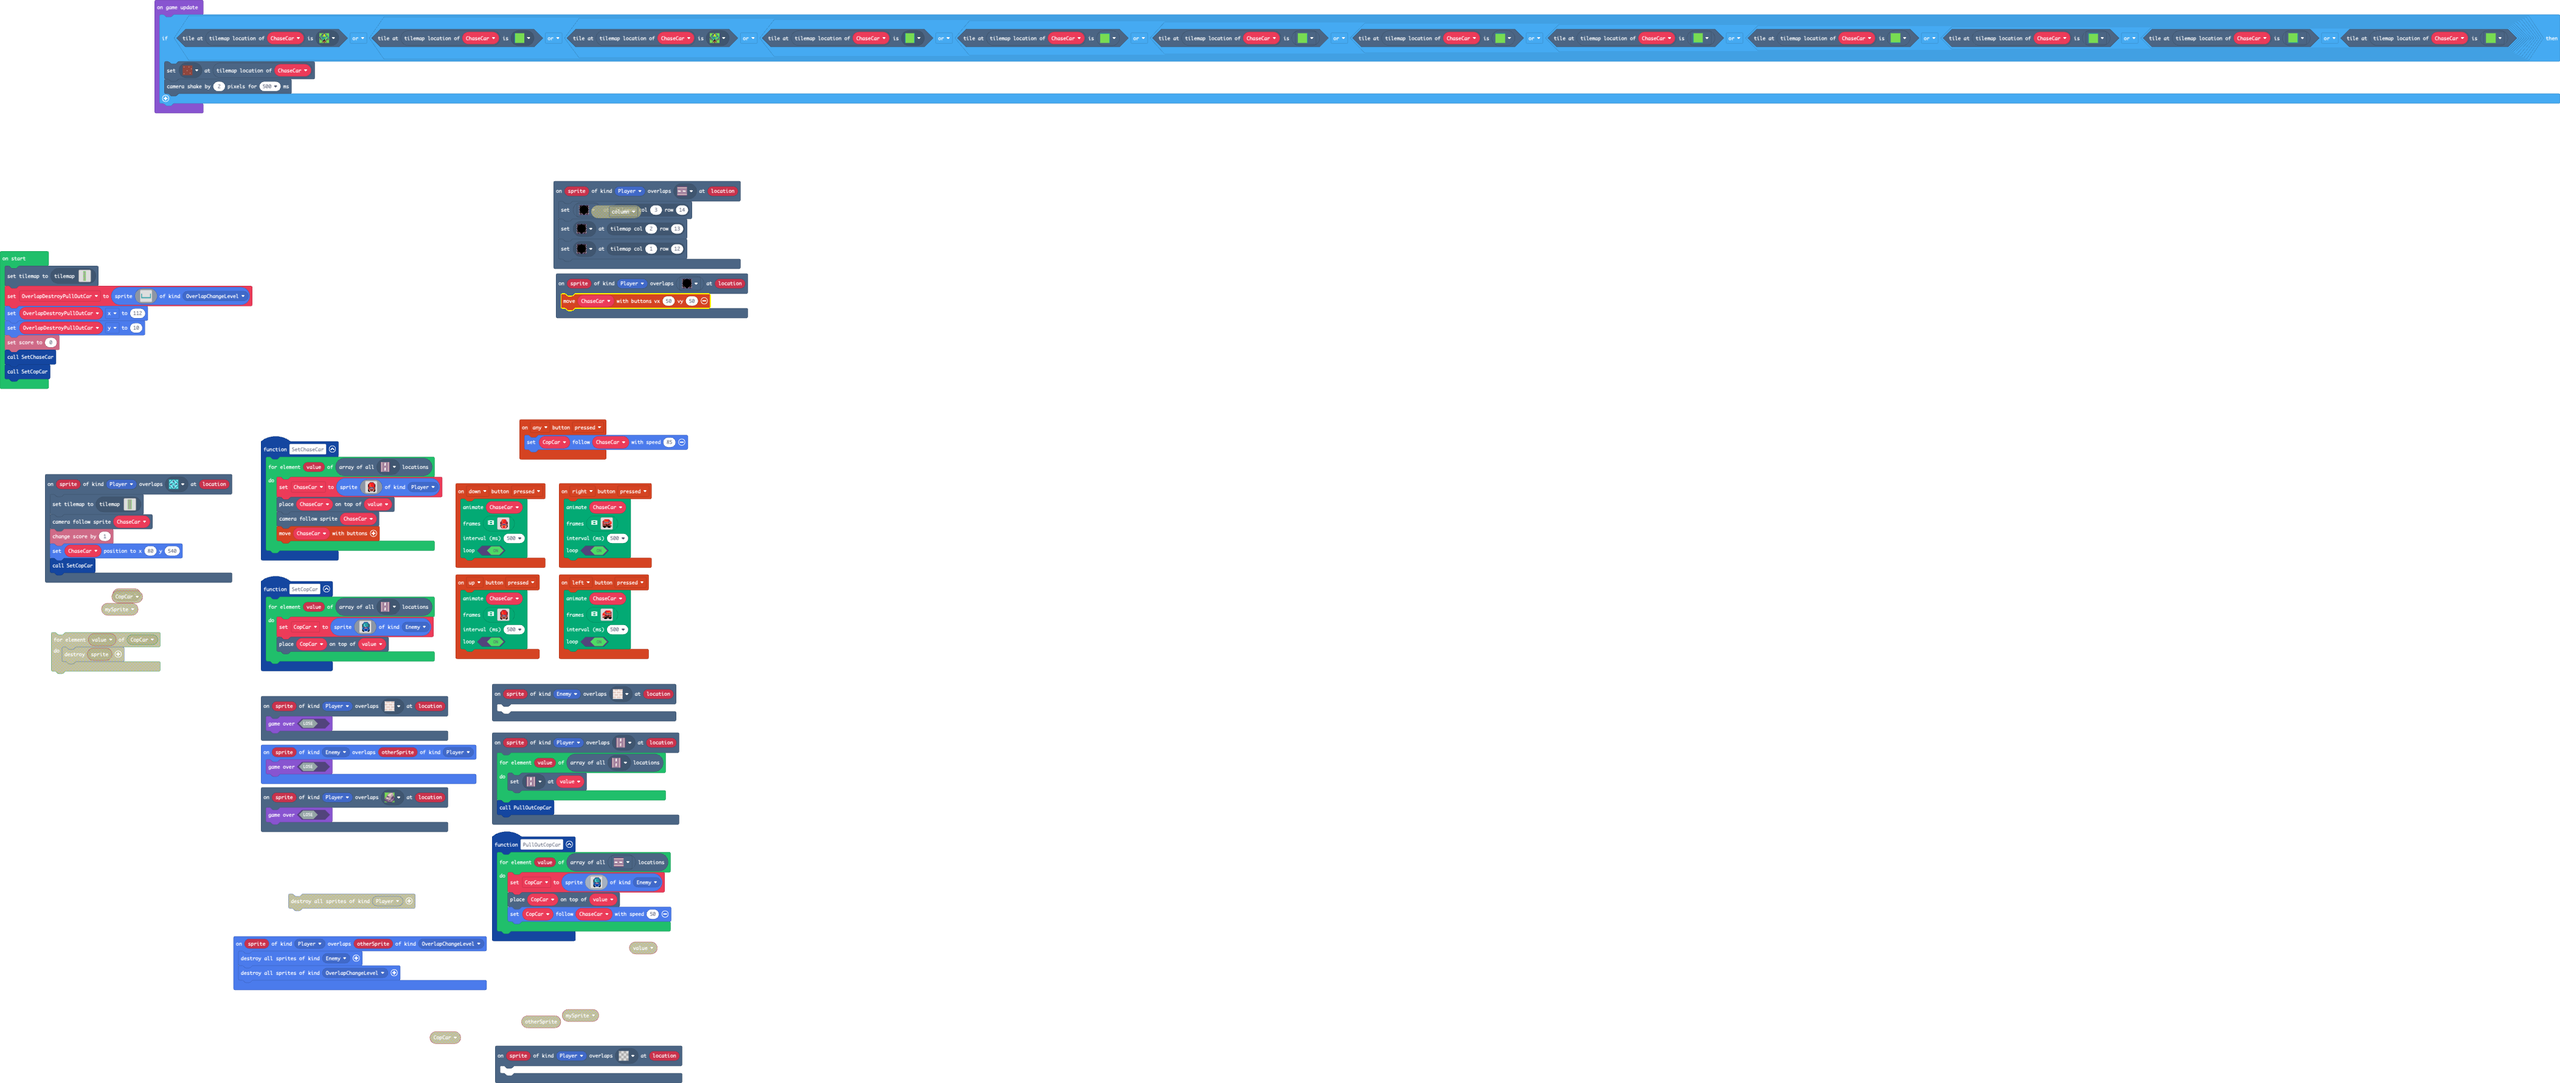
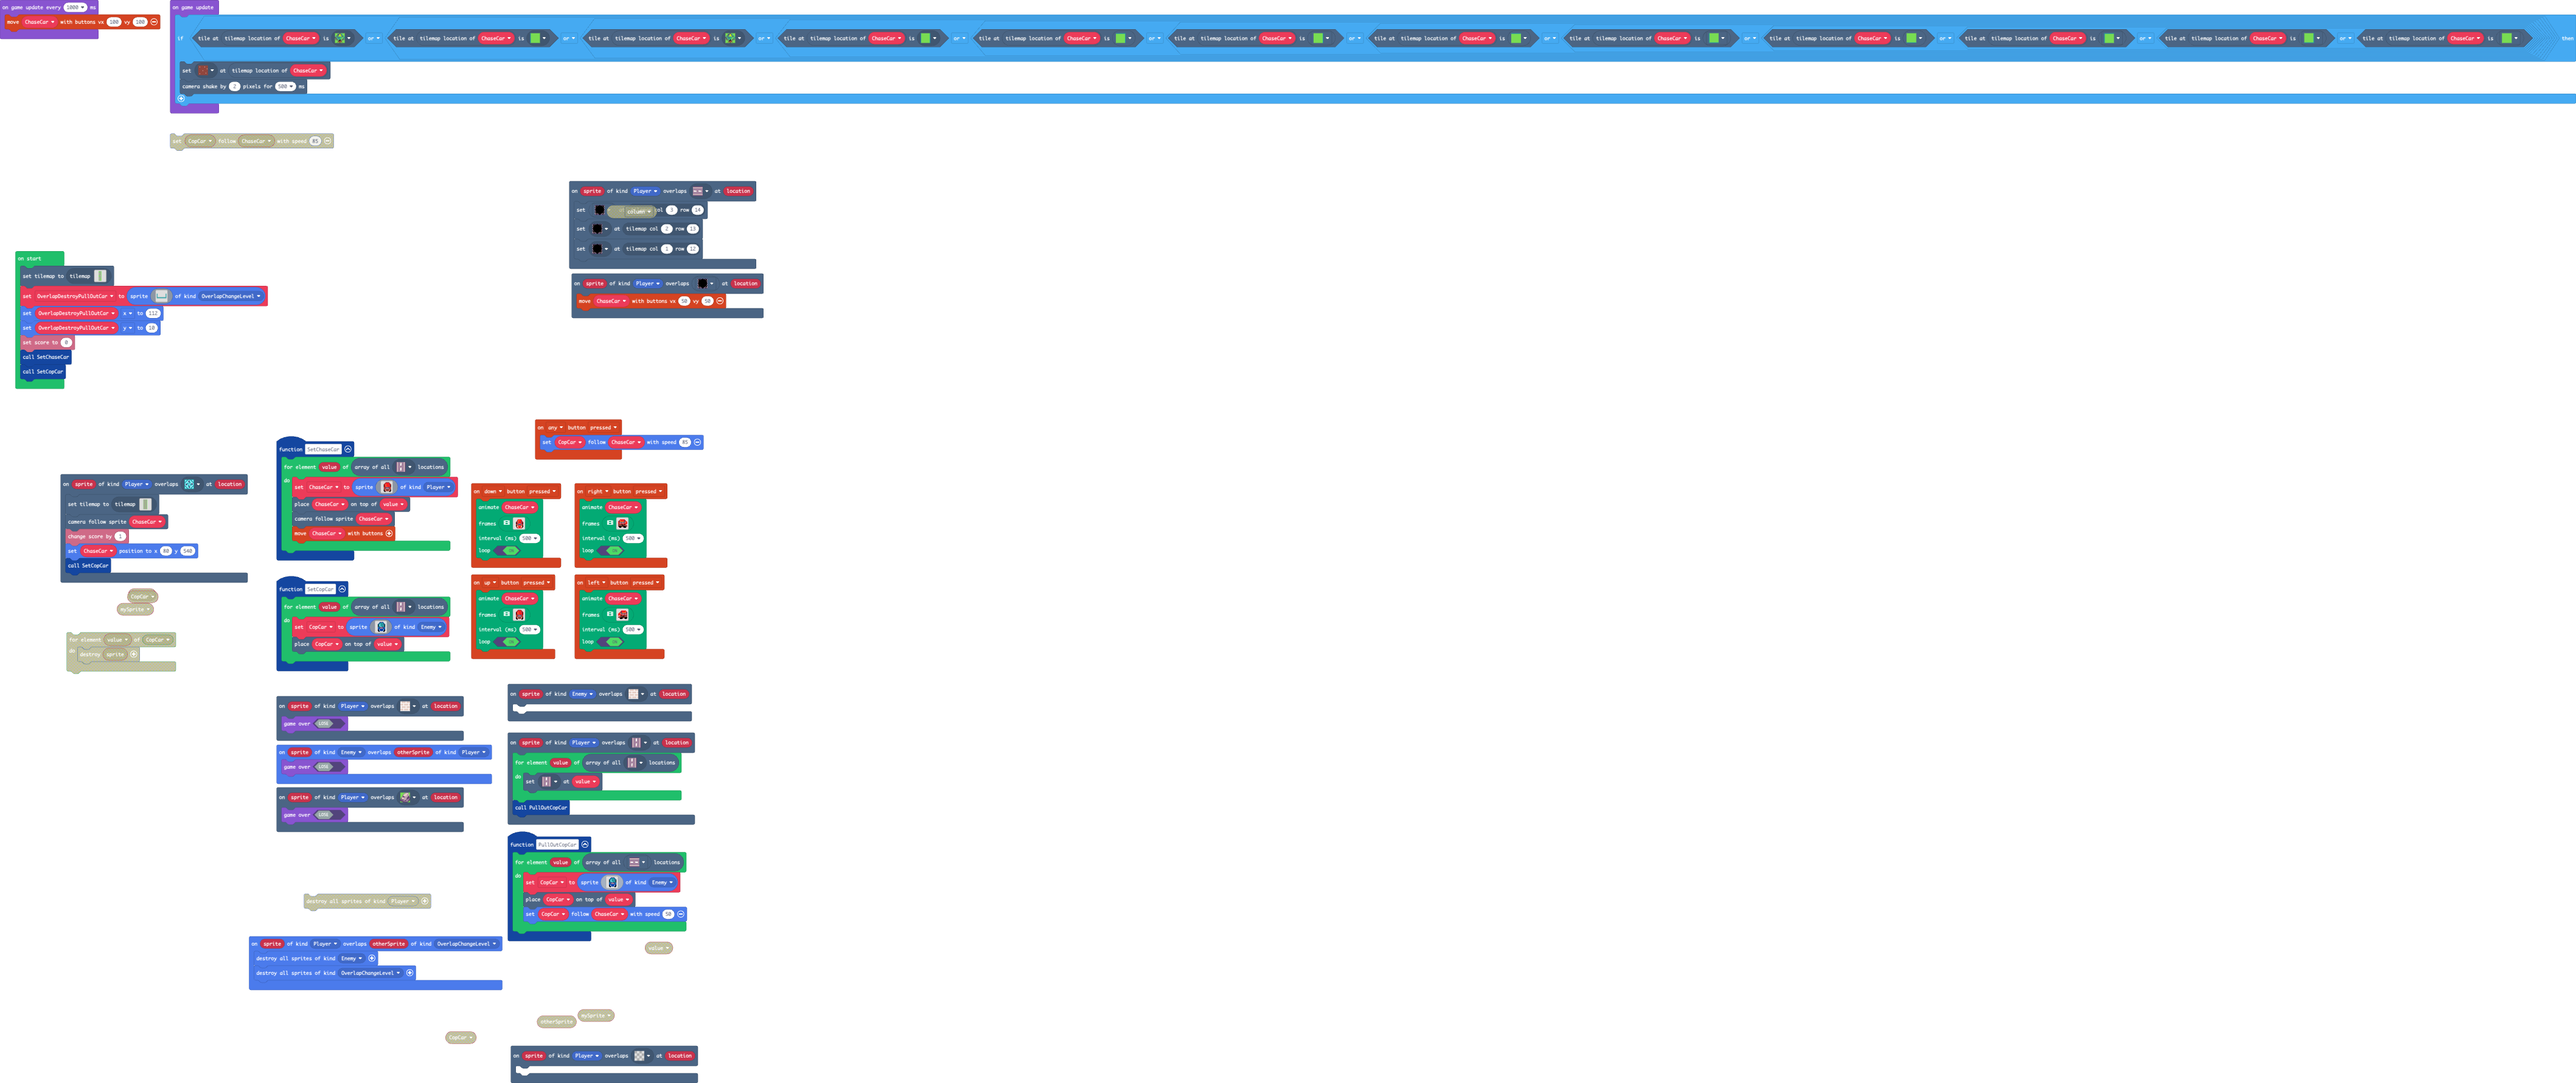
Update main.blocks, main.ts

diff --git a/main.ts b/main.ts
@@ -250,3 +250,6 @@ game.onUpdate(function () {
         scene.cameraShake(2, 500)
     }
 })
+game.onUpdateInterval(1000, function () {
+    controller.moveSprite(ChaseCar, 100, 100)
+})
